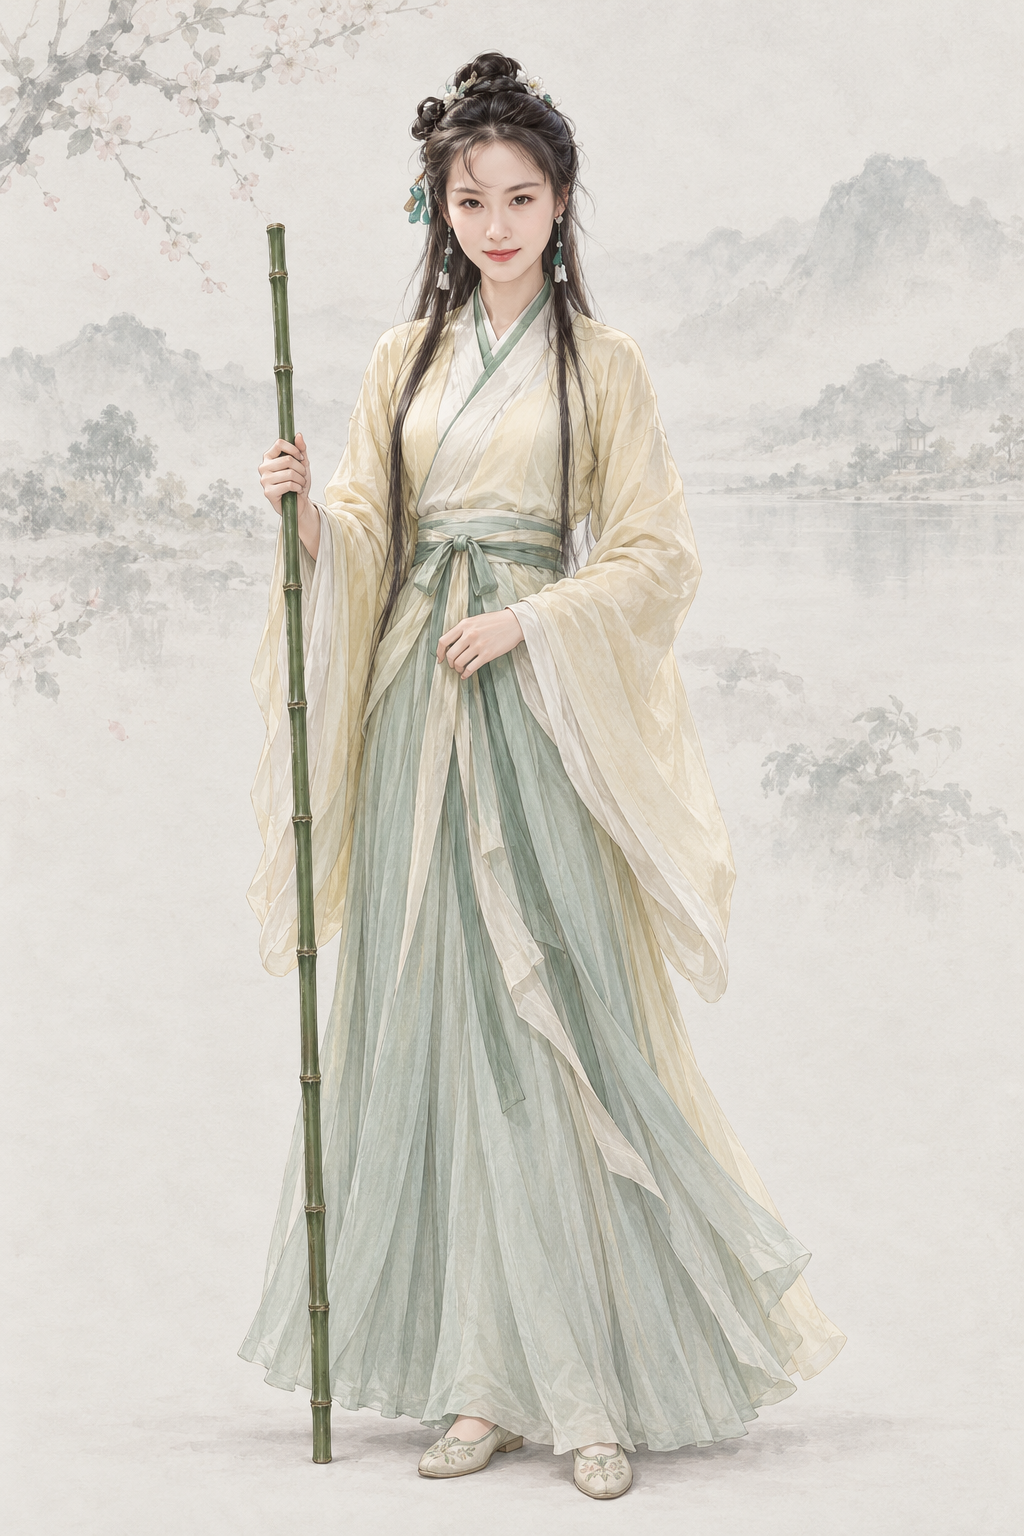
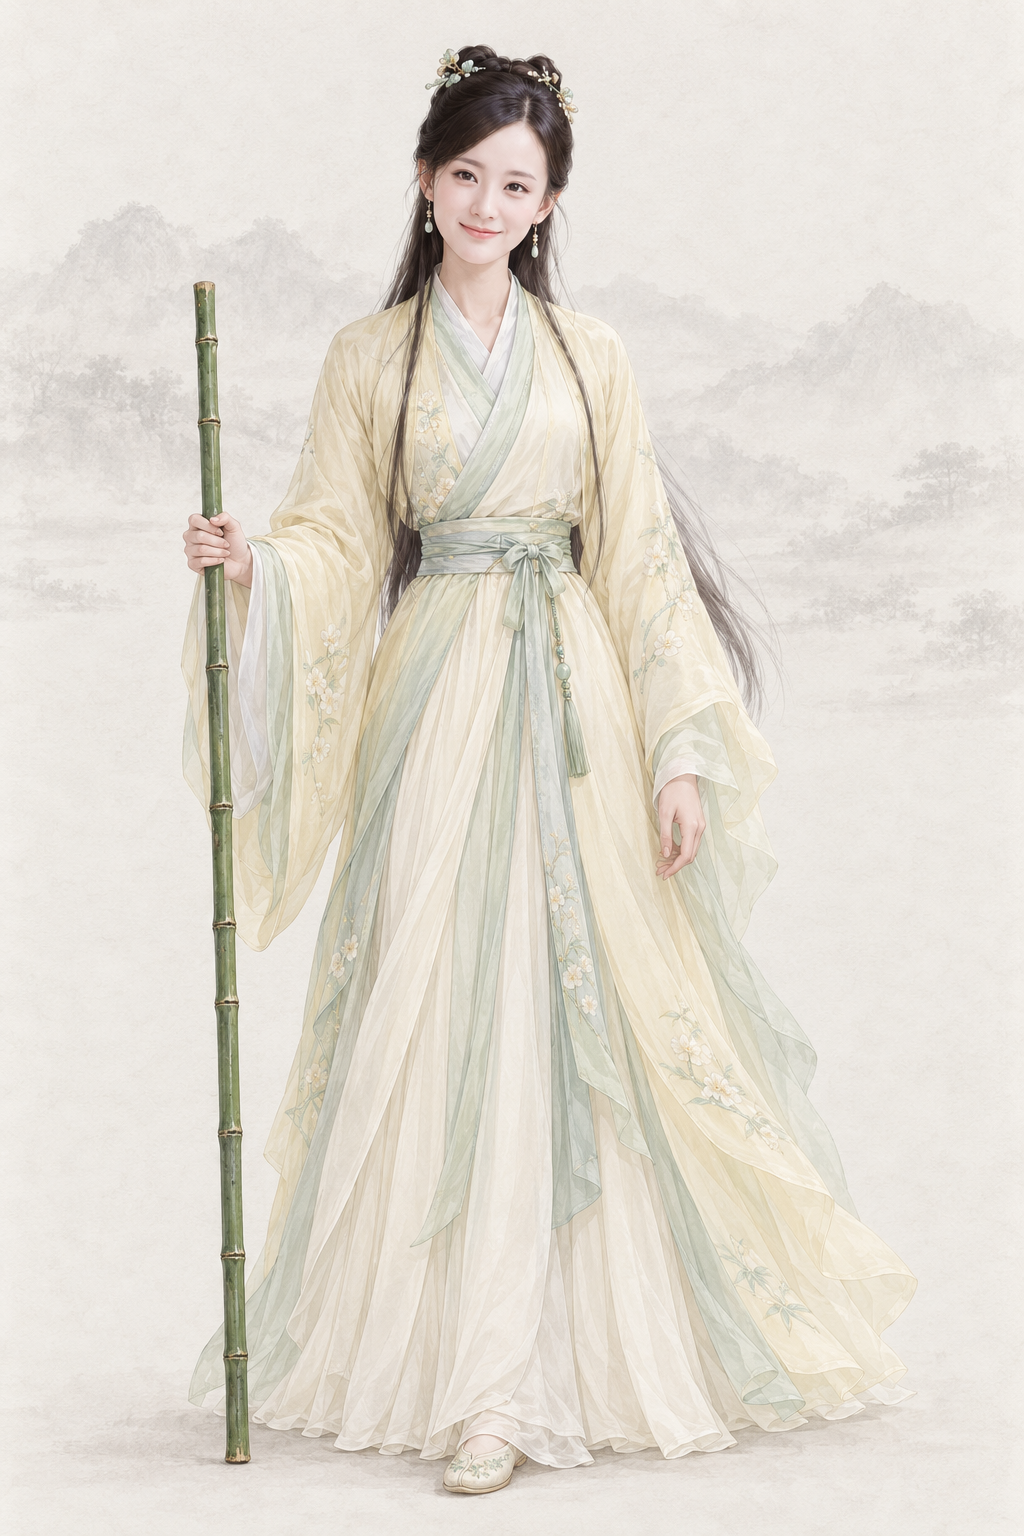
assets(character): 黄蓉 base 换作者选定的 A 版（AR-44，更像 2017 版、眼睛大一些）
作者 13:19「黄蓉要更像李一桐版本一些，眼睛大一些」，16:00「黄蓉用a」。前置 2017 版剧照与剧照脸部特写，按项目画风重画，丐帮帮主造型（鹅黄浅碧纱衣、碧玉珠花、碧绿竹棒）不变。旧图备份在 codex_w17/replaced/，提示词写回 npc_huangrong.md，上一版留作历史。

diff --git a/assets/default/prompts/characters/ch02-shediao/npc_huangrong.md b/assets/default/prompts/characters/ch02-shediao/npc_huangrong.md
@@ -8,34 +8,58 @@ age_variant: youth
 tier: S
 output: assets/default/character/female/ch02/por_npc_huangrong__ch02_youth_bangzhu_base.png
 manifest: assets/default/character/female/ch02/manifest.yaml
-references:
[5 lines of base64/hex data omitted]
 status: candidate
 realism_revision: user_identity_pose_20261001
-redo_reason: "作者 10-02 晚：复合基线风格精修"
+references:
+- path: .agents/coord/imagegen-reference/identity-20261002/shediao/huangrong_2017_liyitong_sina2020a.jpg
+  use: 身份参考：2017《射雕英雄传》 剧照（作者 10-03 指定版本）；只借造型、气质与五官神韵，按项目画风重画，不照搬照片
+  sha256: e22e5671b54c11e8ec7ef1c2371929fbde16680b9301706c921cacdfd580537b
+- path: .agents/coord/_handoff/gem/codex_w17/staging/stillface__huangrong.jpg
+  use: 剧照脸部特写：由上面这张剧照裁出放大（512×512），只为看清五官；同样只借神韵，按项目画风重画
+  sha256: d1afa0b76bc2ef9c2eedff27483496c704b763b822ec2aae1221c3094f7f89bf
+- path: assets/default/baseline/character/female/ref_npc_wangyuyan__ch01_base01.png
+  use: 画风基线：项目同性别基线立绘，只取画风、用色、光线、质感和背景处理，不取长相（上传缩小版 JPEG）
+  sha256: 2d1b0b0905e7624d3713ca71422974db15f0eaf42da34376794d040e4855a640
+- path: assets/default/baseline/character/female/ref_npc_xiaolongnv__ch03_base01.png
+  use: 画风基线：项目同性别基线立绘，只取画风、用色、光线、质感和背景处理，不取长相（上传缩小版 JPEG）
+  sha256: 725271dfebbb9e9d6dbe02c77ebcc26d292e7f46c29375266480717604175be9
+redo_reason: "作者 10-03 AR-44：参考2017《射雕英雄传》造型重画 base，不要和照片一样"
 reference_upload:
-- "/Users/bytedance/Projects/jinyongqunxia/.agents/wt/_prod/.agents/coord/_handoff/gem/codex_w11/resume/refs/huangrong_still1.jpg"
-- "/Users/bytedance/Projects/jinyongqunxia/.agents/wt/_prod/.agents/coord/_handoff/gem/codex_w11/resume/refs/huangrong_still2.jpg"
-- "/Users/bytedance/Projects/jinyongqunxia/.agents/wt/_prod/.agents/coord/_handoff/gem/codex_w11/resume/refs/huangrong_game.jpg"
-- "/Users/bytedance/Projects/jinyongqunxia/.agents/wt/_prod/.agents/coord/_handoff/gem/baseline_small/female__ref_npc_wangyuyan__ch01_base01.jpg"
-- "/Users/bytedance/Projects/jinyongqunxia/.agents/wt/_prod/.agents/coord/_handoff/gem/baseline_small/female__ref_npc_xiaolongnv__ch03_base01.jpg"
-codex_prompt_rev: 2026-10-02
+- /Users/bytedance/Projects/jinyongqunxia/.agents/wt/_prod/.agents/coord/_handoff/gem/codex_w17/staging/still__por_npc_huangrong__ch02_youth_bangzhu_base__1.jpg
+- /Users/bytedance/Projects/jinyongqunxia/.agents/wt/_prod/.agents/coord/_handoff/gem/codex_w17/staging/stillface__huangrong.jpg
+- /Users/bytedance/Projects/jinyongqunxia/.agents/wt/_prod/.agents/coord/_handoff/gem/baseline_small/female__ref_npc_wangyuyan__ch01_base01.jpg
+- /Users/bytedance/Projects/jinyongqunxia/.agents/wt/_prod/.agents/coord/_handoff/gem/baseline_small/female__ref_npc_xiaolongnv__ch03_base01.jpg
+codex_prompt_rev: 2026-10-03
 classic_ref:
-  version: 1994 年 TVB 张智霖、朱茵版《射雕英雄传》（黄蓉取朱茵版气质，AR-30 / AR-32）
-  actor: 朱茵
+  version: 2017《射雕英雄传》
   stills:
-  - .agents/coord/imagegen-reference/identity-20261002/shediao/huangrong_1994_zhuyin_sohu2025a.jpg
-  - .agents/coord/imagegen-reference/identity-20261002/shediao/huangrong_1994_zhuyin_sohu2025b.jpg
-composite_job: por_npc_huangrong__ch02_youth_bangzhu_base.resume3
+  - .agents/coord/imagegen-reference/identity-20261002/shediao/huangrong_2017_liyitong_sina2020a.jpg
 ---
 
 # 黄蓉 · 人物写实修正
 
 ## Gemini 提示词
+
+> 2026-10-03 AR-44 新 base（10 号出图员，codex exec · image_gen）：作者要求参考2017《射雕英雄传》造型、按项目画风重画、不要和照片一样；上传顺序：1 张剧照、1 张剧照脸部特写，最后两张为同性别画风基线（缩小版 JPEG）。上一版保留在下一节作历史。AR-44，作者 16:00 选 A（更像 2017 版、眼睛大一些）。
+
+```text
+生成一张 2:3 竖幅全身人物立绘：单人、单一视角、完整全身——头顶、双手、双脚和手中器物的两端都在画面内，四周留出自然空白；人物站姿自然，身体基本朝向正面，头部端正（不歪头、不仰不俯），镜头平视。
+【参考图】第 1 张是该角色经典影视造型的剧照，第 2 张是同一张剧照的脸部特写。人物的脸要明显向剧照靠拢——脸型、眉形与眉眼间距、眼型与眼神、鼻梁、嘴型和神情都要像剧照里的这个角色，让看过这一版的观众一眼认出；发型、服饰、配色和气质也借鉴剧照。但必须重新绘制成项目的手绘插画画风：不要照片质感，不要照搬剧照的构图、光影、背景和姿势，不要做成照片修图或照片贴脸。最后两张是本项目画风基线：画风、用色、光线、质感和暖浅灰纸底加淡水墨背景以它们为准，但不取基线人物的长相。
+【服饰以下文为准】剧照只借脸和神韵；服饰、发饰与道具按下文的丐帮帮主造型，不照搬剧照里的白衣和双辫。
+【画风】写实手绘古风人物插画，与本项目写实武侠角色立绘同一画风，像功力深厚的画师用细腻笔触画出的真实人物。手绘插画质感，不是 CG 渲染：不要过度光滑的皮肤、完美对称的五官、塑料高光、过度锐利的发丝；保留自然的笔触和细微不完美。皮肤有真实质感——细小毛孔、细纹、晒痕和自然的左右不对称，不磨皮、不油亮；头发是一缕缕自然的发丝和少量碎发；布料看得出经纬纹理、厚薄和自然垂坠的褶皱，带穿用过的轻微旧化，但完整不破烂；整体设色低饱和、沉稳；柔和的自然光从左上方照来，明暗过渡自然，不打舞台光、轮廓光或美颜柔光。不是照片，不是三维渲染，不是动漫或游戏 CG，也不是油画（没有厚涂笔触和画布纹理）。
+【背景】不透明的暖浅灰色纸底，只在远处有极淡的水墨远山和薄雾，大面积留白；人物与背景明暗分明、轮廓边缘干净完整（后续要自动抠图），水墨和纸纹只在背景里，不侵入人物和衣服；脚下只有很淡的一点接触阴影。
+【人物】黄蓉，《射雕英雄传》南宋的女主角，桃花岛主黄药师之女；君山大会接任丐帮帮主之后、射雕时期的少女帮主。聪明绝顶、俏皮灵动，又有一派帮主的从容。
+【年龄与体态】约十九岁的成年女子（不是儿童或少女体态），身材纤秀匀称，约 7.5 头身。
+【面容（作者：更像 2017 版、眼睛大一些）】明艳灵动：标准的鹅蛋脸、下巴小巧；一双又大又亮的杏眼——黑眼珠大、双眼皮清楚、眼尾微微上扬，眼神灵动狡黠、像随时藏着鬼主意；眉毛细长柔和；鼻子小巧挺直；唇形饱满、嘴角上扬带甜美的笑；肤色白皙透亮。五官比例是成年女子的，不要娃娃脸、婴儿肥或动漫大眼。
+【发式】乌黑长发半挽：头顶两侧挽小髻，簪碧玉珠花与小发饰，其余长发披在身后，鬓边垂两缕发丝。
+【服饰】沿用现有帮主造型：淡鹅黄与浅碧色相间的轻纱交领右衽长衣，内衬月白中衣，浅碧色腰带，及地长裙，浅色绣鞋；衣料轻盈完整、不暴露。
+【手与道具】右手持丐帮帮主的碧绿竹棒（打狗棒，约与她肩同高，竹节清楚），棒梢点地；左手自然垂放或轻提衣裙。
+【姿态】站姿轻盈俏立，身体基本朝向正面，头部端正，目光平视、带着狡黠的笑意。
+【不要】画面里不要任何文字、题款、印章、签名、水印、边框、分格或多视图；不要第二个人；不要幼态（童颜、娃娃脸、婴儿肥、儿童或少年身材、大头小身）；不要塑料感皮肤、磨皮美颜、网红脸（尖下巴大眼高鼻的模板脸）、过度对称、浓妆、偶像式打光、蜡像感；不要照片质感，不要像剧照照片、照片修图或拼贴，不要照搬剧照的背景、光影、构图和姿势；不要三维渲染或动漫大眼；不要歪头、斜镜头；不要多指、缺指（设定的伤残除外）、手与器物粘连或悬空；衣襟必须右衽（穿着者的左襟压在右襟上），不要左衽（设定为少数民族服制的除外），不要水平镜像；不要现代物品、发光特效、法阵或能量光。不要娃娃脸、婴儿肥、动漫大眼或少女体态；不要浓妆；不要换掉帮主的碧绿竹棒。
+【画风基线】随提示词上传的参考图里，最后两张是本项目的立绘画风基线：只参考它们的画风、用色、光线、质感和暖浅灰纸底加淡水墨的背景处理，整体画风必须与它们一致——精细写实的数字手绘插画，不是油画，不要厚涂笔触和画布纹理。基线图只取画风，不取长相：不要照搬基线图里人物的长相、年龄、发型、服饰和姿势。
+```
+
+## 上一版 Gemini 提示词（AR-44 新 base 之前，历史，不再用于出图）
 
 > 作者10-02晚复合精修；任务 `por_npc_huangrong__ch02_youth_bangzhu_base.resume3`；实际上传顺序见frontmatter，末两张为female项目基线。
 
